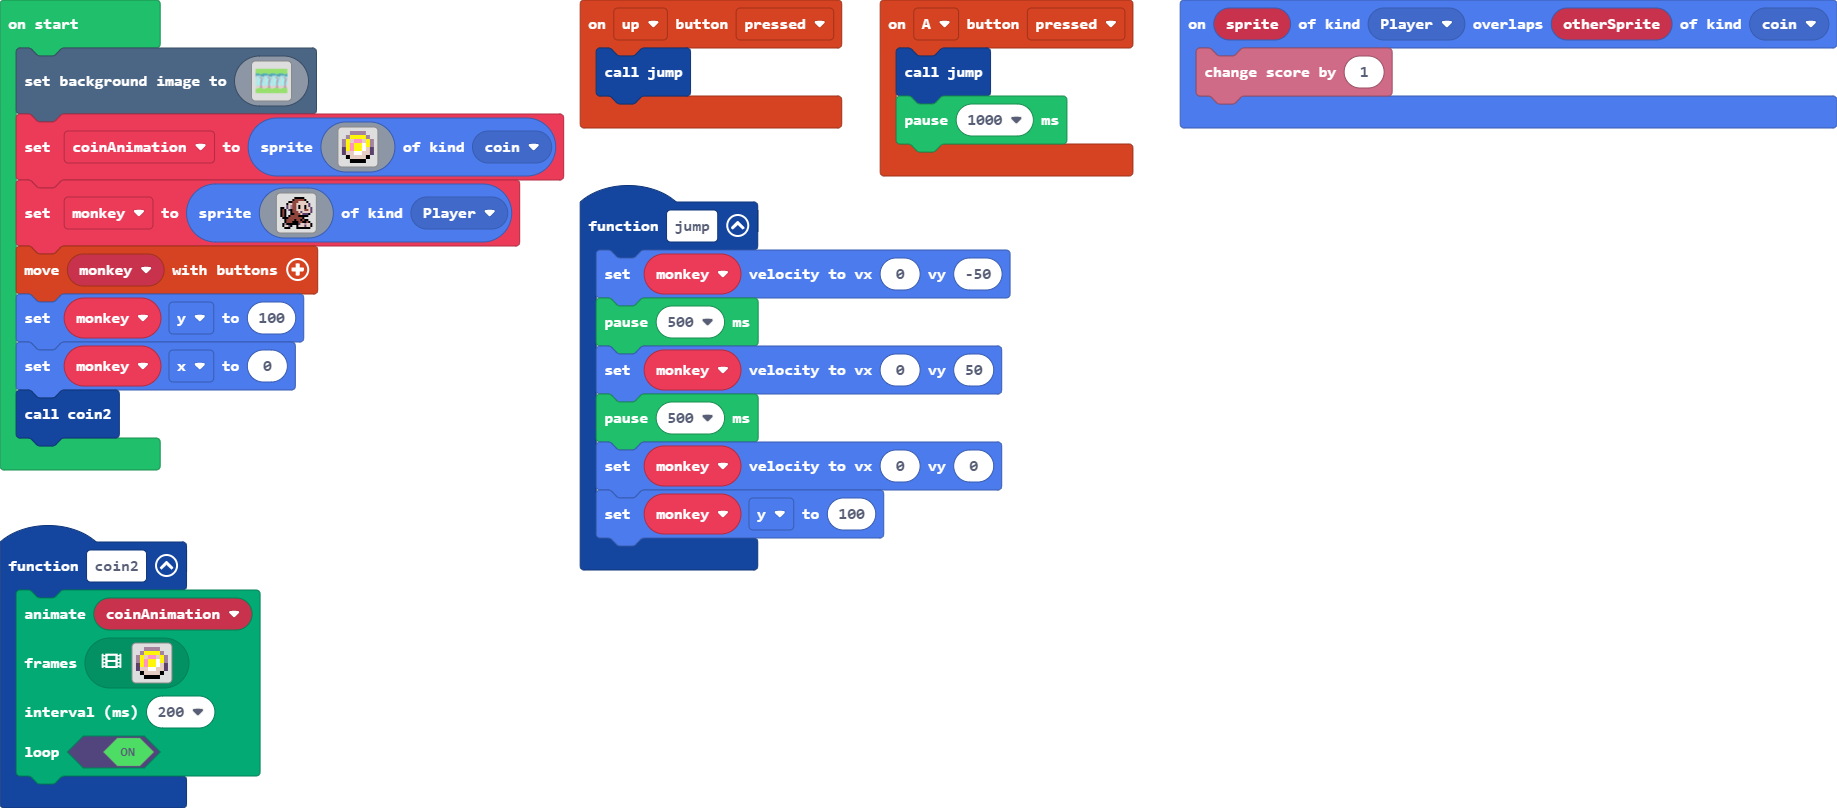
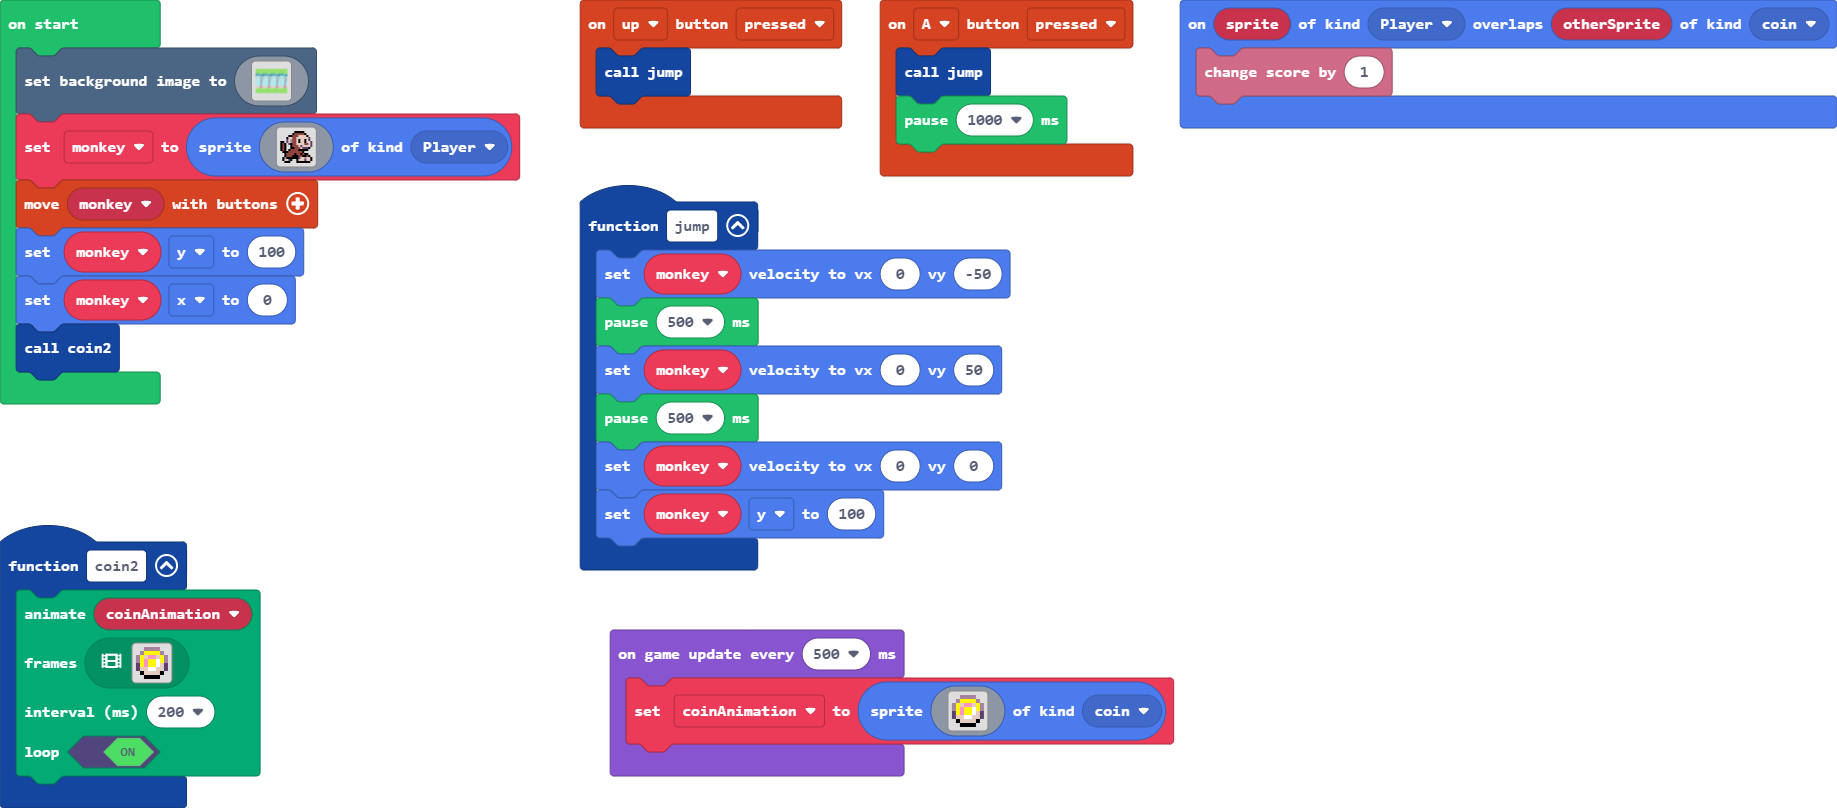
Update main.blocks, main.ts

Changed region(s): [[0.0, 0.1238, 0.3103, 0.5879], [0.3103, 0.7735, 0.6516, 0.9592]]

diff --git a/main.ts b/main.ts
@@ -81,8 +81,8 @@ function jump () {
     monkey.setVelocity(0, 0)
     monkey.y = 100
 }
-let monkey: Sprite = null
 let coinAnimation: Sprite = null
+let monkey: Sprite = null
 scene.setBackgroundImage(img`
     7777777777777777777777777777777777777777777777777777777777777777777777777777777777777777777777777777777777777777777777777777777777777777777777777777777777777777
     7777777777777777777777777777777777777777777777777777777777777777777777777777777777777777777777777777777777777777777777777777777777777777777777777777777777777777
@@ -205,16 +205,6 @@ scene.setBackgroundImage(img`
     7777777777777777777777777777777777777777777777777777777777777777777777777777777777777777777777777777777777777777777777777777777777777777777777777777777777777777
     7777777777777777777777777777777777777777777777777777777777777777777777777777777777777777777777777777777777777777777777777777777777777777777777777777777777777777
     `)
-coinAnimation = sprites.create(img`
-    . . b b b b . . 
-    . b 5 5 5 5 b . 
-    b 5 d 3 3 d 5 b 
-    b 5 3 5 5 1 5 b 
-    c 5 3 5 5 1 d c 
-    c d d 1 1 d d c 
-    . f d d d d f . 
-    . . f f f f . . 
-    `, SpriteKind.coin)
 monkey = sprites.create(img`
     . . . . . . . f f f f f . . . . 
     . . . . . . f e e e e e f . . . 
@@ -237,3 +227,15 @@ controller.moveSprite(monkey)
 monkey.y = 100
 monkey.x = 0
 coin2()
+game.onUpdateInterval(500, function () {
+    coinAnimation = sprites.create(img`
+        . . b b b b . . 
+        . b 5 5 5 5 b . 
+        b 5 d 3 3 d 5 b 
+        b 5 3 5 5 1 5 b 
+        c 5 3 5 5 1 d c 
+        c d d 1 1 d d c 
+        . f d d d d f . 
+        . . f f f f . . 
+        `, SpriteKind.coin)
+})
